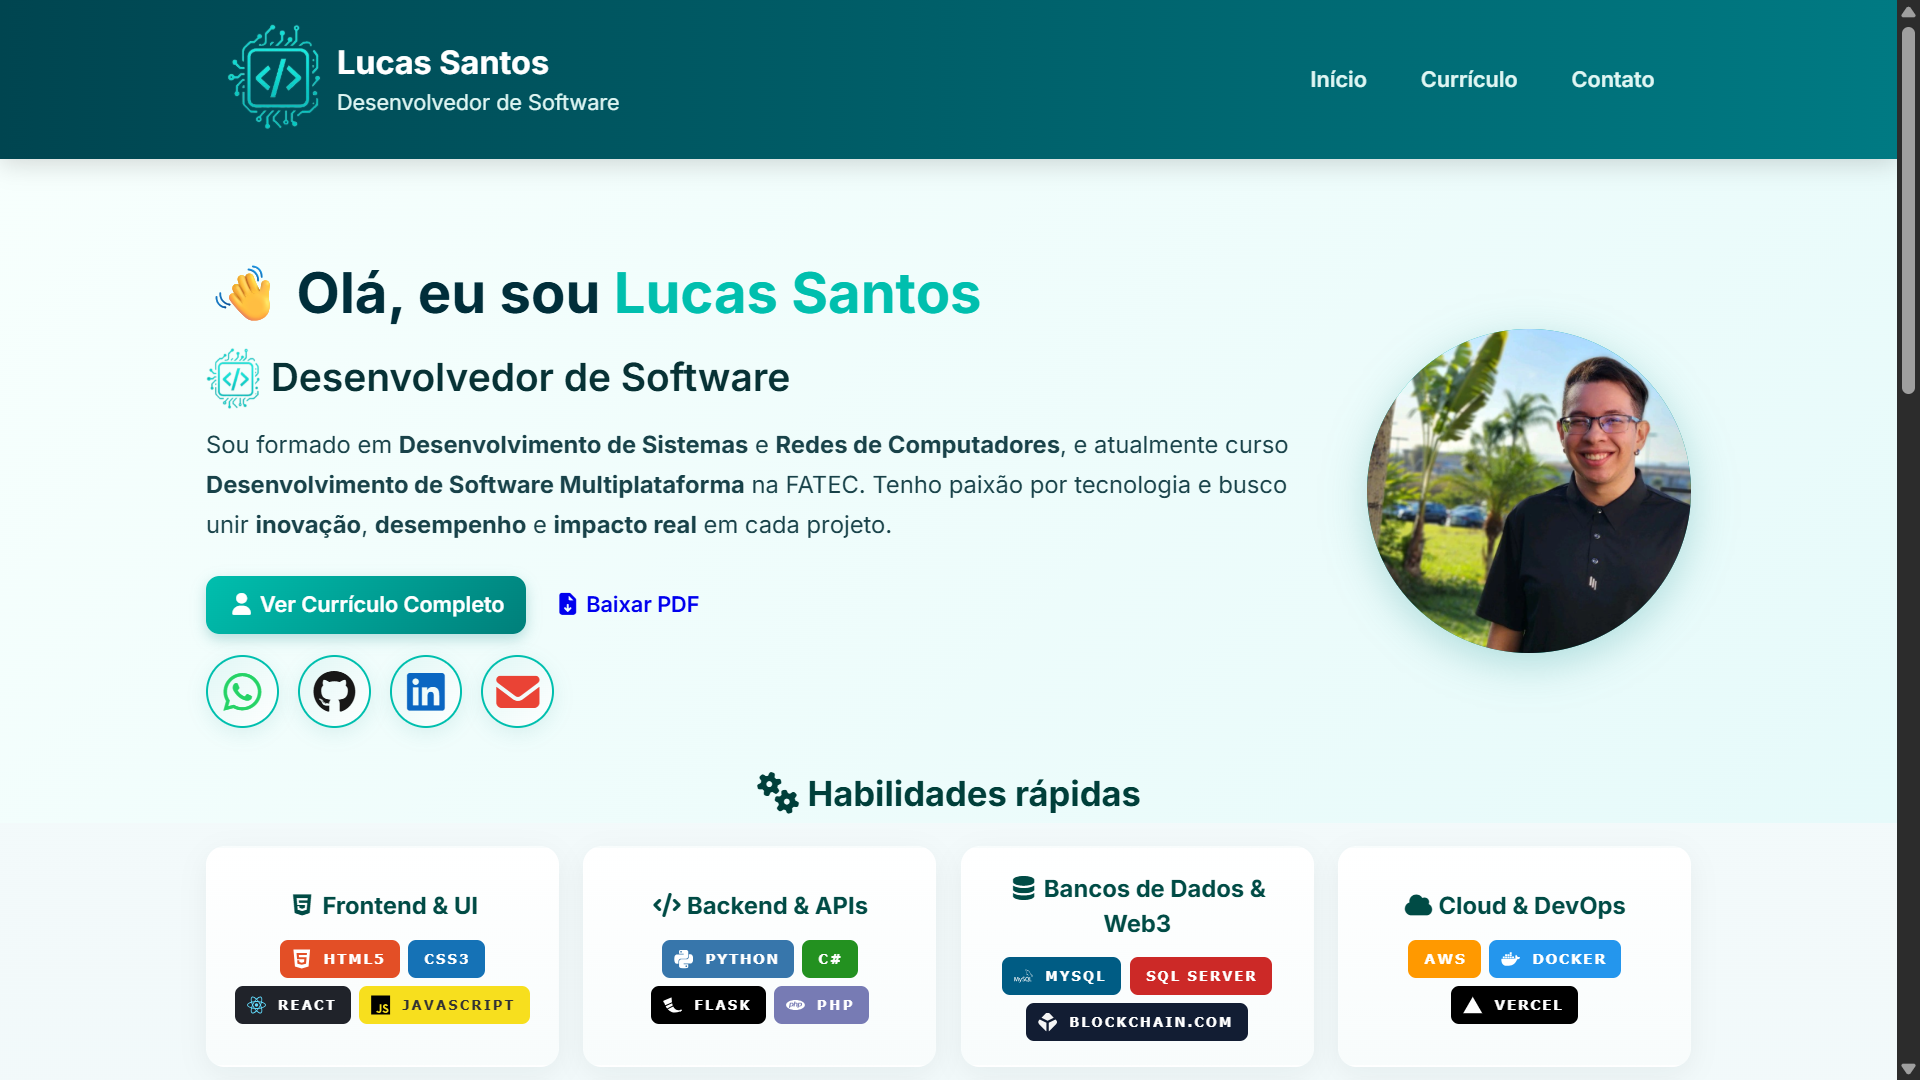
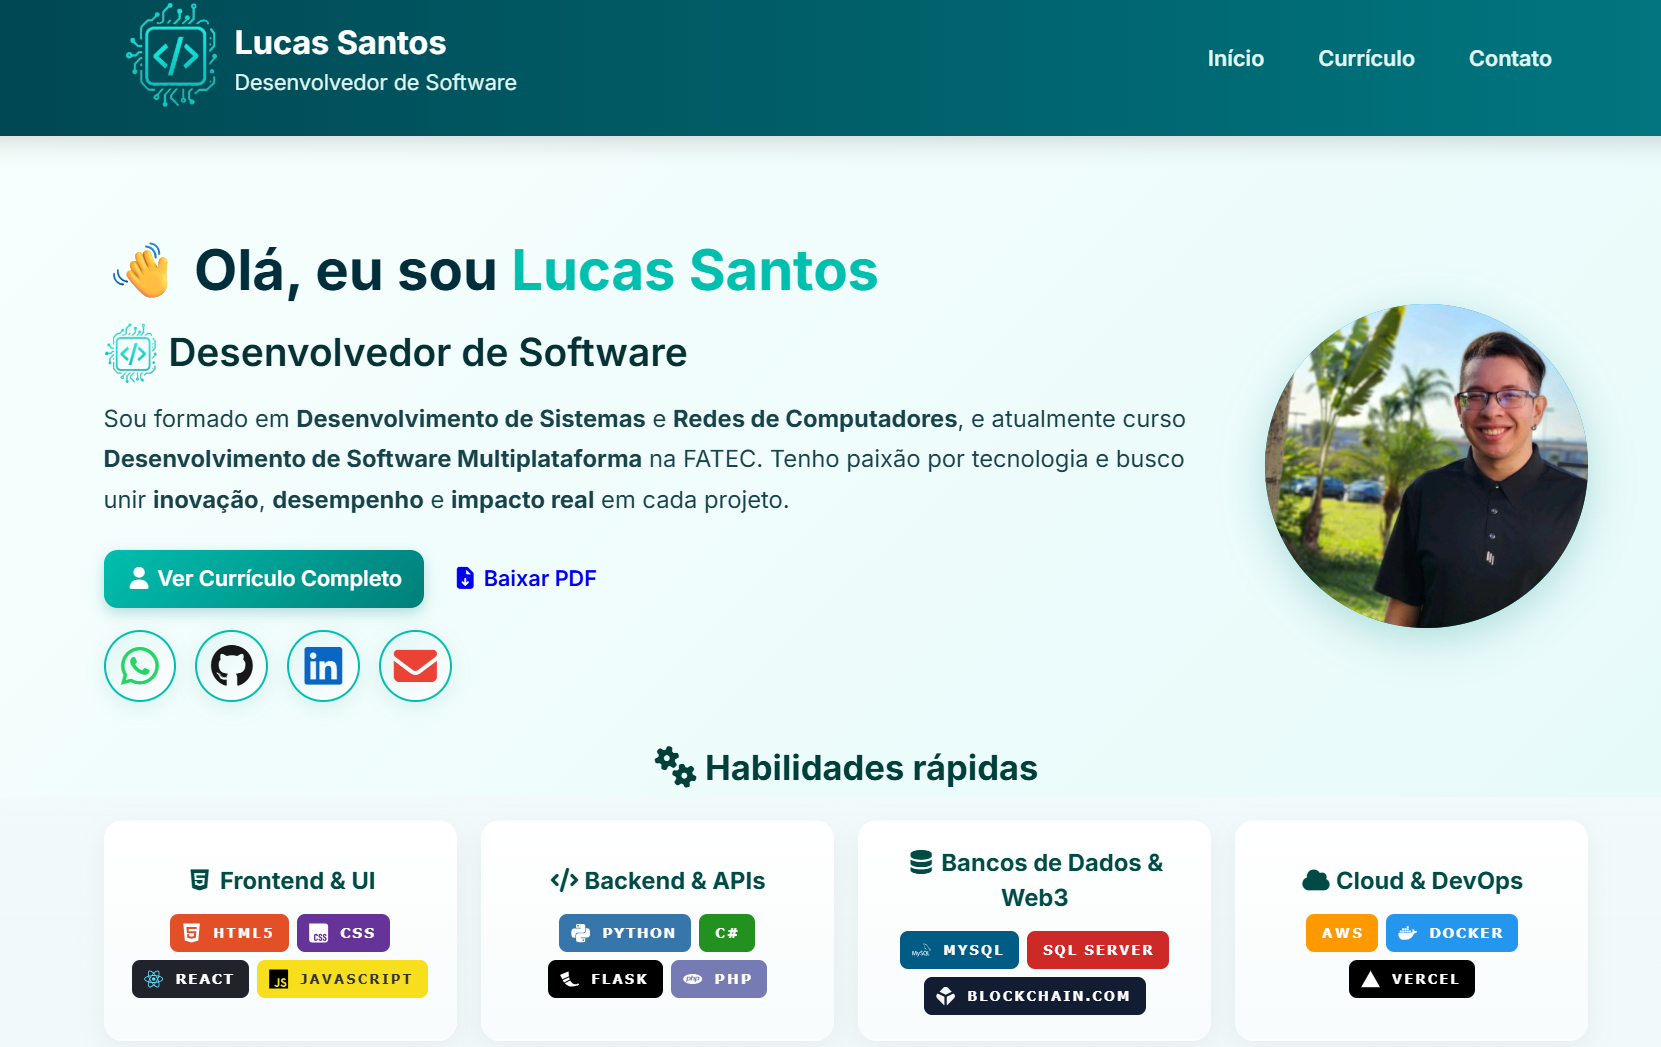
adição de tecnologias e ajustes mobile no curriculo

diff --git a/curriculo.html b/curriculo.html
@@ -320,7 +320,7 @@
                   alt="HTML5 — linguagem de marcação"
                 />
                 <img
-                  src="https://img.shields.io/badge/CSS3-1572B6?style=for-the-badge&logo=css3&logoColor=white"
+                  src="https://img.shields.io/badge/CSS-663399.svg?style=for-the-badge&logo=CSS&logoColor=white"
                   alt="CSS3 — estilização web"
                 />
                 <img
@@ -342,12 +342,12 @@
                   alt="Python"
                 />
                 <img
-                  src="https://img.shields.io/badge/C%23-239120?style=for-the-badge&logo=c-sharp&logoColor=white"
-                  alt="C#"
-                />
-                <img
                   src="https://img.shields.io/badge/Flask-000000?style=for-the-badge&logo=flask&logoColor=white"
                   alt="Flask"
+                />
+                <img
+                  src="https://img.shields.io/badge/C%23-239120?style=for-the-badge&logo=c-sharp&logoColor=white"
+                  alt="C#"
                 />
                 <img
                   src="https://img.shields.io/badge/php-%23777BB4.svg?style=for-the-badge&logo=php&logoColor=white"
@@ -460,11 +460,19 @@
               </h5>
               <div class="skill-badges">
                 <img
-                  src="https://img.shields.io/badge/chatGPT-74aa9c?style=for-the-badge&logo=openai&logoColor=white"
+                  src="https://img.shields.io/badge/ChatGPT-74aa9c?style=for-the-badge&logo=openai&logoColor=white"
                   alt="ChatGPT"
                 />
                 <img
-                  src="https://img.shields.io/badge/google%20gemini-8E75B2?style=for-the-badge&logo=google%20gemini&logoColor=white"
+                  src="https://img.shields.io/badge/Claude-D97757?style=for-the-badge&logo=claude&logoColor=white"
+                  alt="Claude"
+                />
+                <img
+                  src="https://img.shields.io/badge/Perplexity-1FB8CD?style=for-the-badge&logo=perplexity&logoColor=white"
+                  alt="Perplexity"
+                />
+                <img
+                  src="https://img.shields.io/badge/Google_Gemini-8E75B2?style=for-the-badge&logo=google%20gemini&logoColor=white"
                   alt="Gemini"
                 />
               </div>

diff --git a/index.html b/index.html
@@ -174,7 +174,7 @@
                   alt="HTML5"
                 />
                 <img
-                  src="https://img.shields.io/badge/CSS3-1572B6?style=for-the-badge&logo=css3&logoColor=white"
+                  src="https://img.shields.io/badge/CSS-663399.svg?style=for-the-badge&logo=CSS&logoColor=white"
                   alt="CSS3"
                 />
                 <img
@@ -196,12 +196,12 @@
                   alt="Python"
                 />
                 <img
-                  src="https://img.shields.io/badge/C%23-239120?style=for-the-badge&logo=c-sharp&logoColor=white"
-                  alt="C#"
-                />
-                <img
                   src="https://img.shields.io/badge/Flask-000000?style=for-the-badge&logo=flask&logoColor=white"
                   alt="Flask"
+                />
+                <img
+                  src="https://img.shields.io/badge/C%23-239120?style=for-the-badge&logo=c-sharp&logoColor=white"
+                  alt="C#"
                 />
                 <img
                   src="https://img.shields.io/badge/PHP-777BB4?style=for-the-badge&logo=php&logoColor=white"
@@ -316,6 +316,14 @@
                 <img
                   src="https://img.shields.io/badge/ChatGPT-74aa9c?style=for-the-badge&logo=openai&logoColor=white"
                   alt="ChatGPT"
+                />
+                <img
+                  src="https://img.shields.io/badge/Claude-D97757?style=for-the-badge&logo=claude&logoColor=white"
+                  alt="Claude"
+                />
+                <img
+                  src="https://img.shields.io/badge/Perplexity-1FB8CD?style=for-the-badge&logo=perplexity&logoColor=white"
+                  alt="Perplexity"
                 />
                 <img
                   src="https://img.shields.io/badge/Google_Gemini-8E75B2?style=for-the-badge&logo=google%20gemini&logoColor=white"

diff --git a/styles.css b/styles.css
@@ -185,7 +185,7 @@ h4 {
 
 /* ===== HERO ===== */
 .hero {
-  padding: 70px 0;
+  padding: 60px 0;
   background: linear-gradient(135deg, #f7fffd 0%, #e6fafa 100%);
   display: flex;
   align-items: center;
@@ -203,6 +203,7 @@ h4 {
 .hero-content {
   flex: 1 1 520px;
   animation: fadeIn 0.9s ease forwards;
+  max-height: 480px;
 }
 
 .hero-content h2 {
@@ -1662,6 +1663,16 @@ h4 {
   }
 
   /* ===== CURRÍCULO ===== */
+  .container {
+    width: 90%;
+    padding: 0 12px;
+  }
+
+  .curriculo-section {
+    padding: 20px 18px;
+    margin: 0 8px 24px;
+  }
+
   .curriculo-top {
     display: flex;
     flex-direction: column;
